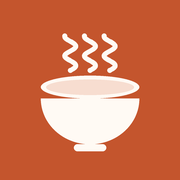
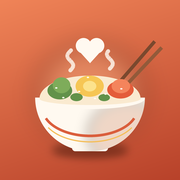
Nieuw app-icoon
Claude-Session: https://claude.ai/code/session_018yCcjsqhfqrsoGR819hpjL

diff --git a/sw.js b/sw.js
@@ -1,5 +1,5 @@
 // Werkt offline: haalt altijd eerst de nieuwste versie op, en valt terug op de cache zonder internet.
-const CACHE = "femke-keuken-v1";
+const CACHE = "femke-keuken-v2";
 const FILES = ["./", "index.html", "recepten.js", "manifest.webmanifest", "icons/icon-180.png", "icons/icon-192.png", "icons/icon-512.png"];
 
 self.addEventListener("install", e => {
